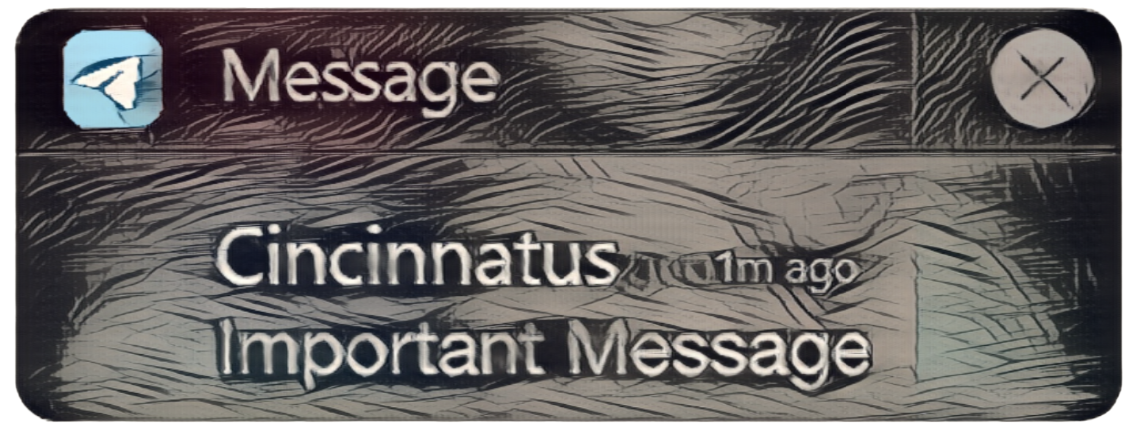
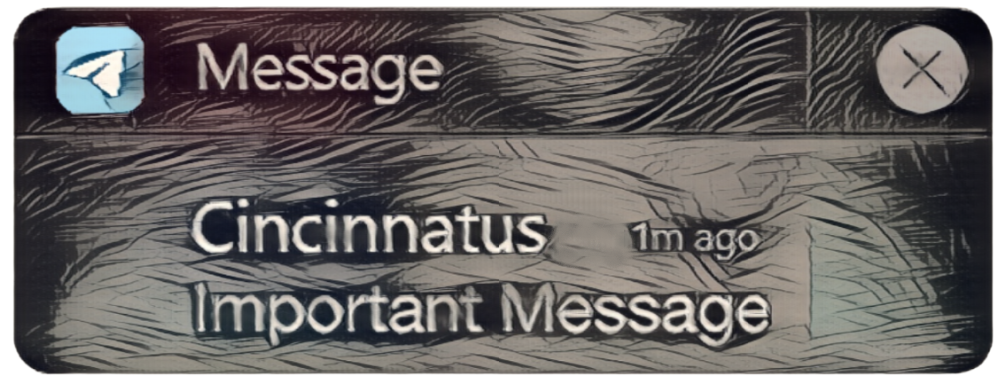
chap1 scene4 ratio update, notif image update, opacity hero, telegrampaste wording, modal prog wording

diff --git a/src/components/Hero.tsx b/src/components/Hero.tsx
@@ -100,21 +100,21 @@ const Hero = () => {
                 <div className="fixed bottom-3 left-3 flex gap-1">
                     <a className="" href="https://github.com/pgrandne/revolte" target="_blank" rel="noreferrer">
                         <Image
-                            className="h-8 object-contain cursor-pointer opacity-60 hover:opacity-100"
+                            className="h-8 object-contain cursor-pointer opacity-70 hover:opacity-100"
                             src={github}
                             alt="github"
                         />
                     </a>
                     <a href="https://www.linkedin.com/company/irruption-lab/" target="_blank" rel="noreferrer">
                         <Image
-                            className="h-8 object-contain cursor-pointer opacity-60 hover:opacity-100"
+                            className="h-8 object-contain cursor-pointer opacity-70 hover:opacity-100"
                             src={linkedin}
                             alt="linkedin"
                         />
                     </a>
                     <a href="https://twitter.com/IrruptionLab" target="_blank" rel="noreferrer">
                         <Image
-                            className="h-8 object-contain cursor-pointer opacity-60 hover:opacity-100"
+                            className="h-8 object-contain cursor-pointer opacity-70 hover:opacity-100"
                             src={twitter}
                             alt="twitter"
                         />
@@ -126,7 +126,7 @@ const Hero = () => {
                     animate={{ opacity: 1, x: 0 }}
                     transition={{ delay: 6, duration: 1 }}
                 >
-                    <p className="text-white text-opacity-60">an adventure game to start exploring Web3</p>
+                    <p className="text-white text-opacity-70 text-xl">an adventure game to start exploring Web3</p>
                 </motion.div>
                 <div className="fixed bottom-3 right-3 flex gap-1">
                     <div
@@ -136,7 +136,7 @@ const Hero = () => {
                             setModalInfo(true)
                         }}>
                         <Image
-                            className="h-8 object-contain cursor-pointer opacity-60 hover:opacity-100"
+                            className="h-8 object-contain cursor-pointer opacity-70 hover:opacity-100"
                             src={donation}
                             alt="Donation"
                         />
@@ -148,7 +148,7 @@ const Hero = () => {
                             setModalInfo(true)
                         }}>
                         <Image
-                            className="h-8 object-contain cursor-pointer opacity-60 hover:opacity-100"
+                            className="h-8 object-contain cursor-pointer opacity-70 hover:opacity-100"
                             src={info}
                             alt="Info"
                         />

diff --git a/src/app/chapter1/scene4/Sequence.tsx b/src/app/chapter1/scene4/Sequence.tsx
@@ -40,7 +40,7 @@ const Sequence = ({ stage, telegramWindow, setTelegramWindow }: {
                         initial={{ y: 100, opacity: 0 }}
                         animate={{ y: 0, opacity: 1 }}
                         transition={{ delay: 16, duration: 1.5 }}>
-                        <div className="flex justify-end pl-[45%] pt-[15%] pb-[5%]">
+                        <div className="flex justify-end pl-[40%] pt-[20%] pb-[0%]">
                             <Image className="object-contain" src={azadPic} alt="Azad" />
                         </div>
                     </motion.div>
@@ -50,7 +50,7 @@ const Sequence = ({ stage, telegramWindow, setTelegramWindow }: {
                             initial={{ y: -10, opacity: 0 }}
                             animate={{ y: 0, opacity: 1 }}
                             transition={{ delay: 18, duration: 1.5 }}>
-                            <div className="flex pl-[70%] pt-[11%] pb-[51%]">
+                            <div className="flex pl-[70%] pt-[15%] pb-[47%]">
                                 <Image
                                     className="object-contain cursor-pointer animate-pulse"
                                     src={notifPic}

diff --git a/src/app/chapter2/scene1/TelegramPaste.tsx b/src/app/chapter2/scene1/TelegramPaste.tsx
@@ -32,12 +32,12 @@ const TelegramPaste = ({ stage, setStage, azadText, setAzadText, setPlayerAddres
         }
         else {
             if (response.status === 423) {
-                const text = "You have more than 1000 USDC, you don't need my money"
+                const text = "You already have enough USDC, I don't need to send you any "
                 setAzadText([...azadText, `${data.address}`, text])
                 setStage(5)
             }
             else {
-                const text = "I have some issues to send it, come back later"
+                const text = "The network seems to have some issues, come back later please"
                 setAzadText([...azadText, `${data.address}`, text])
                 setStage(99)
             }

diff --git a/src/app/chapter2/page.tsx b/src/app/chapter2/page.tsx
@@ -90,7 +90,7 @@ const Chap2 = () => {
                                 <p >Click on <span className="font-extrabold">“Connect Walet“</span> and select Mematask</p>
                             }
                             {isConnected && chain?.id !== 420 &&
-                                <p>Please click on <span className="font-extrabold">“Wrong Network“</span> to switch on Optimism Goerli</p>}
+                                <p>Please click on <span className="font-extrabold">“Wrong Network“</span> and switch to Optimism Goerli</p>}
                         </ motion.div>
                         {chain?.id === 420 &&
                             <motion.div

diff --git a/src/components/ModalProgression.tsx b/src/components/ModalProgression.tsx
@@ -36,9 +36,9 @@ const ModalProgression = ({ setModalProgression, address }: {
                 <Link className="btnProgression" href="/chapter1/scene1">Chapter 1</Link>
                 <Link className="btnProgression" href="/chapter2">Chapter 2</Link>
                 <button
-                    className="btnProgression"
+                    className="btnProgression text-3xl"
                     onClick={getProgression}
-                >Last save</button>
+                >Resume last session</button>
                 <button
                     disabled={loading}
                     className="btnClose mx-auto w-36"
